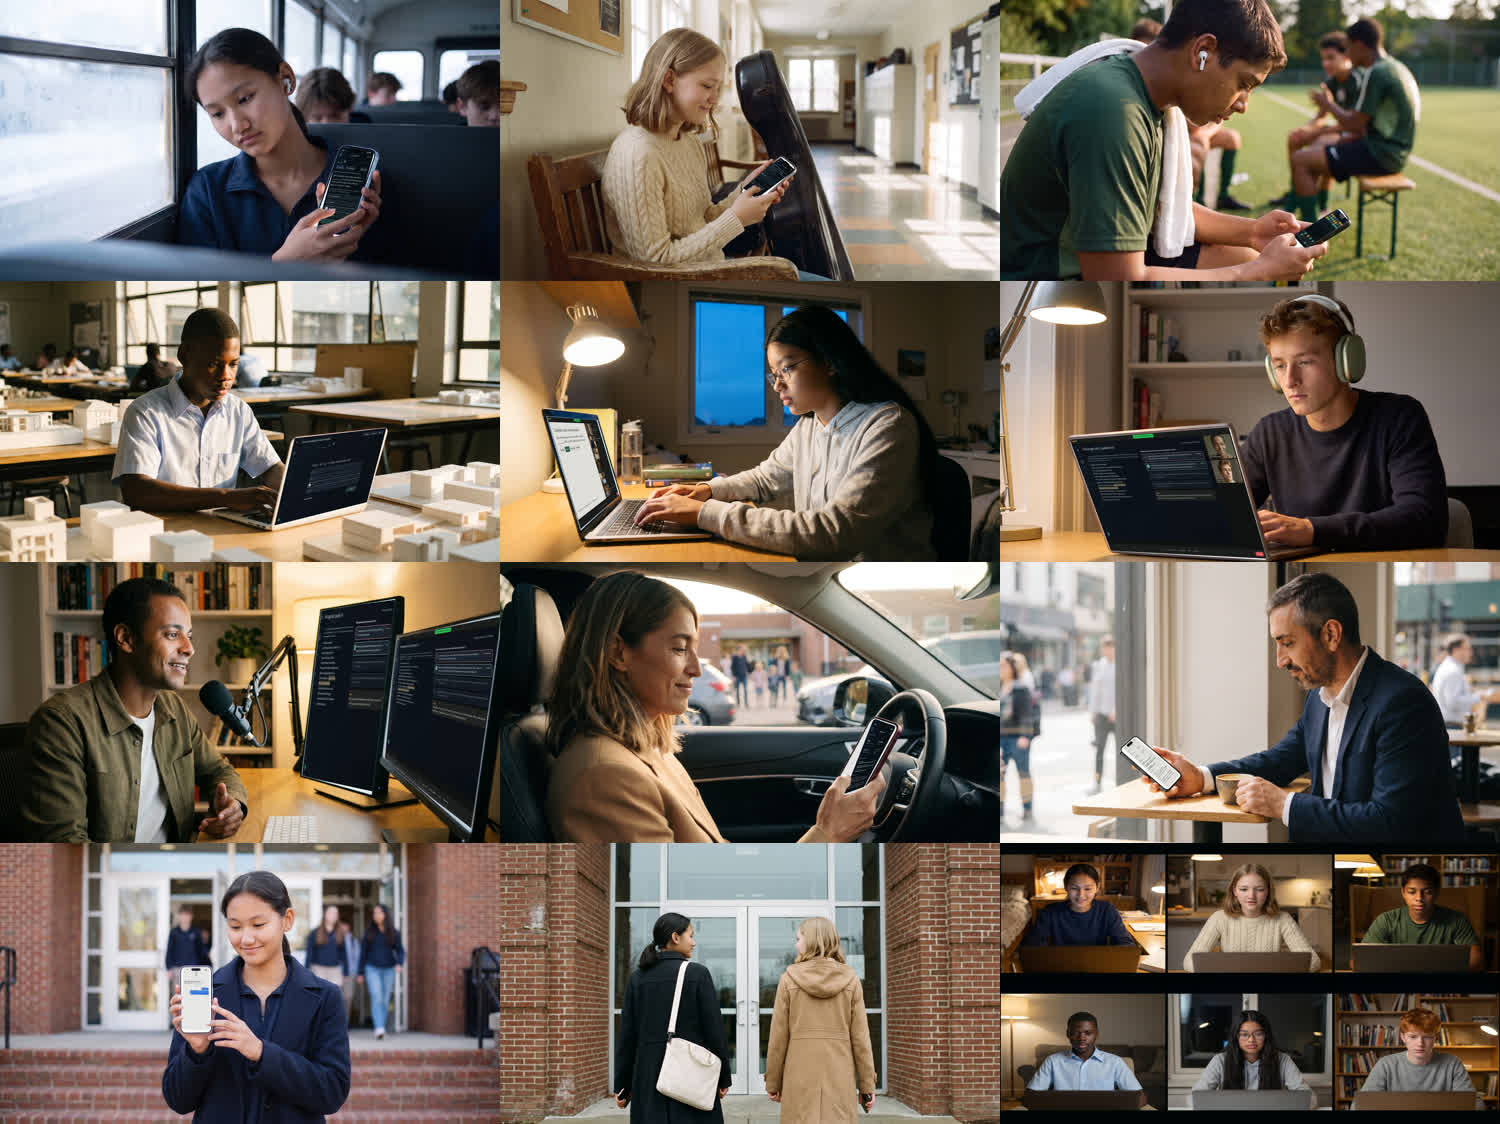
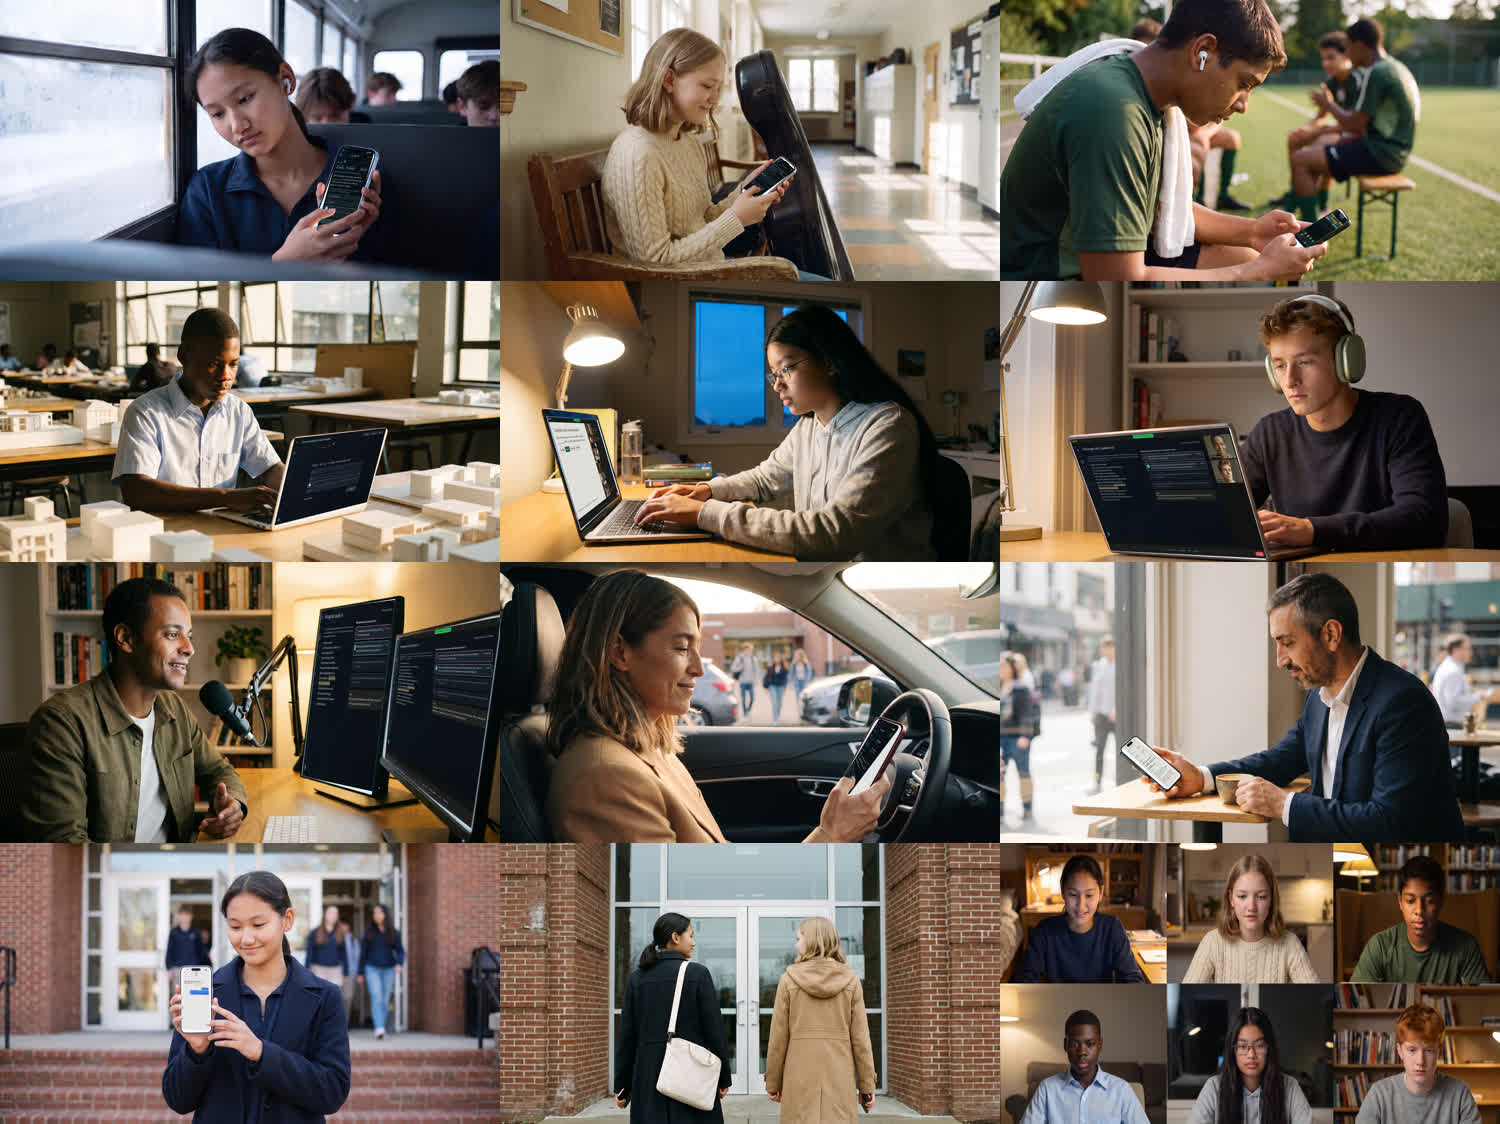
Photography fixes: no bus label, teenagers at pickup, webcam tiles without laptops

Changed region(s): [[0.644, 0.7473, 1.0, 1.0], [0.3987, 0.4982, 0.6747, 0.7473], [0.644, 0.4982, 0.6747, 0.5294]]

diff --git a/.impeccable/mocks/decision/screens/app2.html b/.impeccable/mocks/decision/screens/app2.html
@@ -299,7 +299,7 @@ S["zoom-class"] = ["zoomwin", `<div class="zw"><div class="zt"><span class="dots
    <div class="inp">However: the second sentence goes against the first</div></div></div>
   ${ZCTRL(7)}</div>`];
 S["zoom-1on1"] = ["zoomwin", `<div class="zw"><div class="zt"><span class="dots"><i></i><i></i><i></i></span><span class="share">You are viewing David's screen</span></div>
-  <div class="zb"><div class="zshare"><div class="inner"><iframe src="app2.html?s=review&t=${t}&still=1" title="Shared screen"></iframe></div></div>
+  <div class="zb"><div class="zshare"><div class="inner"><iframe src="/screens/app2.html?s=review&t=${t}&still=1" title="Shared screen"></iframe></div></div>
   <div class="zstrip">${ZTILE("david.jpg", "David (Karman)", true)}${ZTILE("ethan.jpg", "Ethan")}</div></div>
   ${ZCTRL(2)}</div>`];
 S["texts"] = ["msgs", STATUS("11:52") + `<div class="mh2"><span class="back"></span><span class="av">M</span><b>Mom</b></div>
